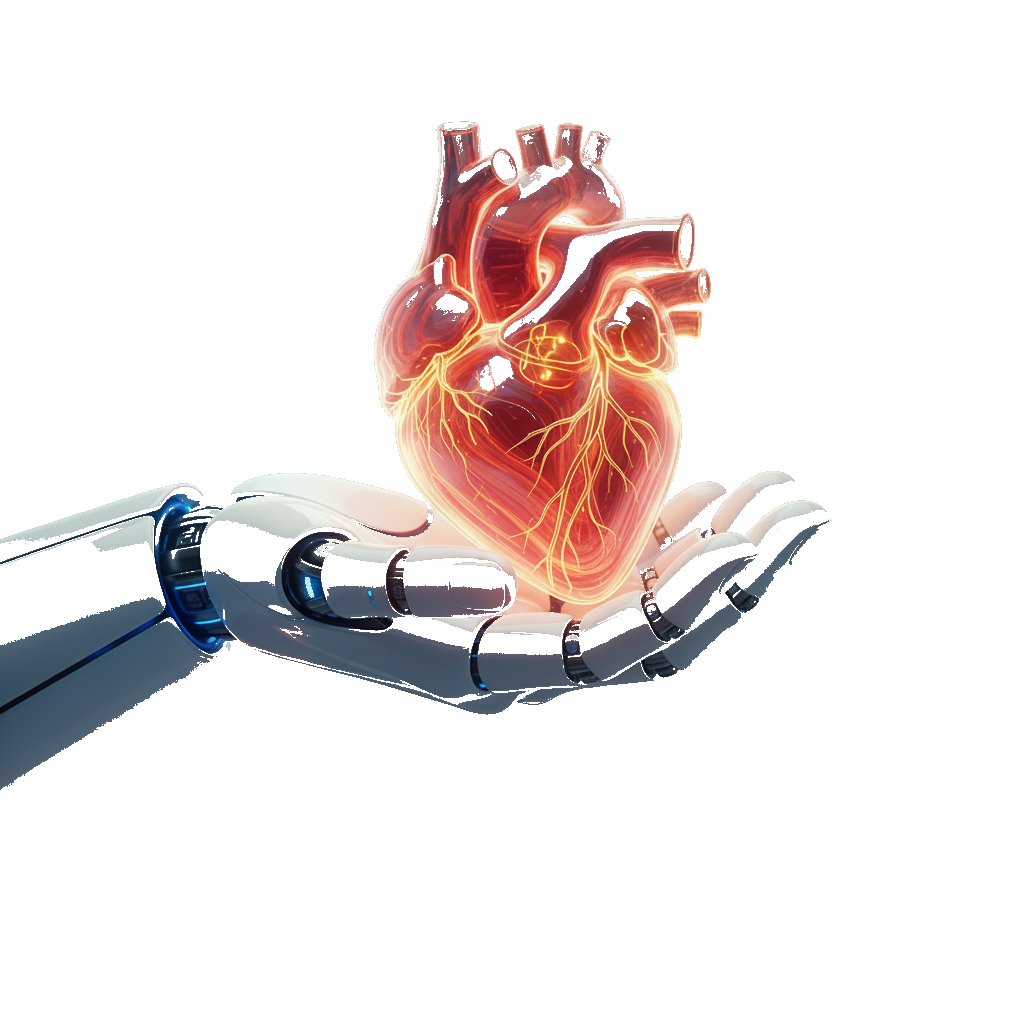
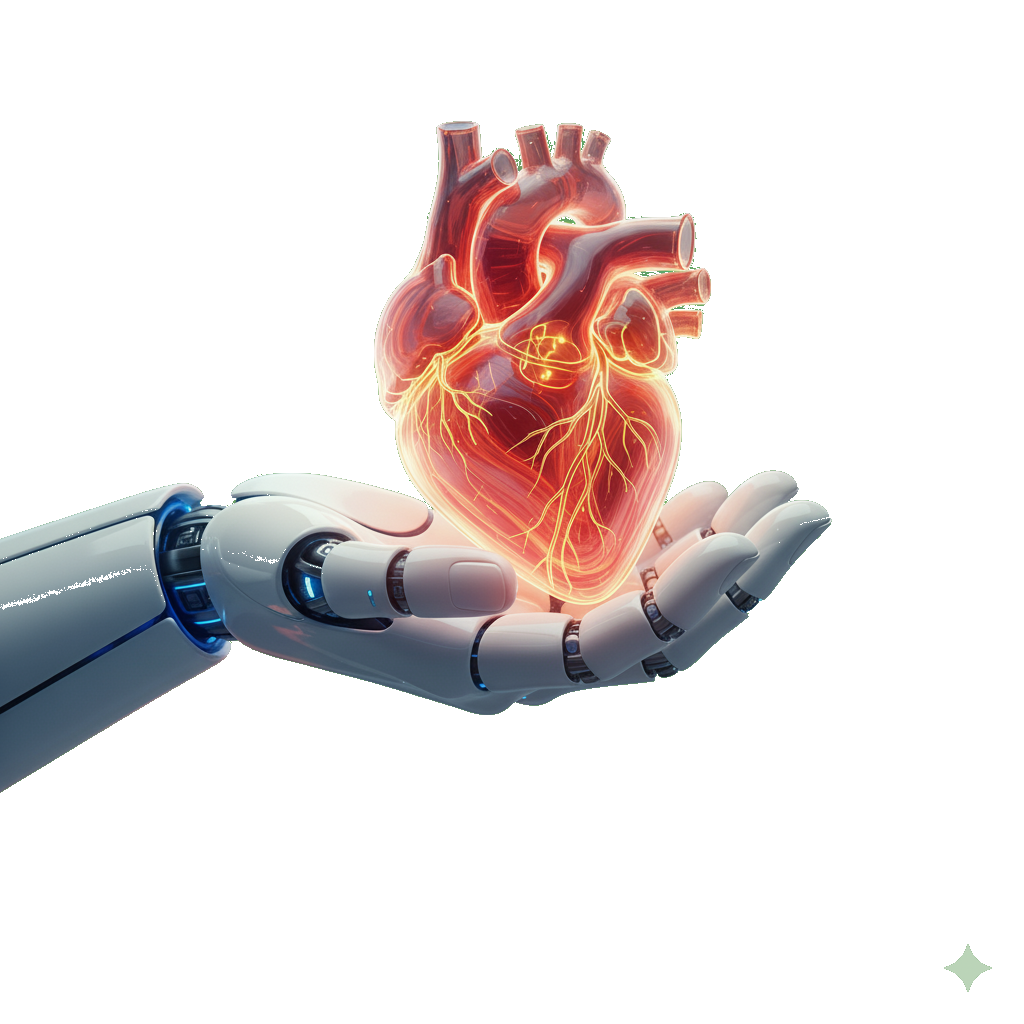
feat: Corrección fluida de servicios + Módulo de métricas Stats Bar + Sección de Proceso 3 pasos + Status Badge Navbar

diff --git a/index.html b/index.html
@@ -24,6 +24,76 @@
 </head>
 <body class="bg-texture">
 
+  <!-- Global Synaptic Neural Background Canvas -->
+  <canvas id="neural-canvas" style="position: fixed; top: 0; left: 0; width: 100vw; height: 100vh; pointer-events: none; z-index: 0; opacity: 0.35;"></canvas>
+
+  <script>
+    (function() {
+      const canvas = document.getElementById('neural-canvas');
+      if (!canvas) return;
+      const ctx = canvas.getContext('2d');
+      let width, height, particles;
+
+      function resize() {
+        width = canvas.width = window.innerWidth;
+        height = canvas.height = window.innerHeight;
+        initParticles();
+      }
+
+      function initParticles() {
+        particles = [];
+        const count = Math.floor((width * height) / 14000);
+        for (let i = 0; i < count; i++) {
+          particles.push({
+            x: Math.random() * width,
+            y: Math.random() * height,
+            vx: (Math.random() - 0.5) * 0.5,
+            vy: (Math.random() - 0.5) * 0.5,
+            radius: Math.random() * 2 + 1
+          });
+        }
+      }
+
+      function animate() {
+        ctx.clearRect(0, 0, width, height);
+        for (let i = 0; i < particles.length; i++) {
+          const p = particles[i];
+          p.x += p.vx;
+          p.y += p.vy;
+
+          if (p.x < 0 || p.x > width) p.vx *= -1;
+          if (p.y < 0 || p.y > height) p.vy *= -1;
+
+          ctx.beginPath();
+          ctx.arc(p.x, p.y, p.radius, 0, Math.PI * 2);
+          ctx.fillStyle = '#fbc02d';
+          ctx.fill();
+
+          for (let j = i + 1; j < particles.length; j++) {
+            const p2 = particles[j];
+            const dx = p.x - p2.x;
+            const dy = p.y - p2.y;
+            const dist = Math.sqrt(dx * dx + dy * dy);
+
+            if (dist < 150) {
+              ctx.beginPath();
+              ctx.moveTo(p.x, p.y);
+              ctx.lineTo(p2.x, p2.y);
+              ctx.strokeStyle = `rgba(232, 30, 97, ${0.65 * (1 - dist / 150)})`;
+              ctx.lineWidth = 1;
+              ctx.stroke();
+            }
+          }
+        }
+        requestAnimationFrame(animate);
+      }
+
+      window.addEventListener('resize', resize, { passive: true });
+      resize();
+      animate();
+    })();
+  </script>
+
   <!-- Navigation Bar -->
   <nav id="navbar" class="navbar">
     <div class="container navbar__nav">
@@ -36,17 +106,24 @@
         <li><a href="#clientes" class="navbar__link">CLIENTES</a></li>
         <li><a href="#portafolio" class="navbar__link">PORTAFOLIO</a></li>
         <li><a href="#servicios" class="navbar__link">SERVICIOS</a></li>
+        <li><a href="#proceso" class="navbar__link">PROCESO</a></li>
         <li><a href="#tarifario" class="navbar__link">TARIFARIO</a></li>
       </ul>
 
-      <a href="https://wa.me/[phone redacted]?text=Hola%20Horizonte!%20Me%20gustar%C3%ADa%20más%20informaci%C3%B3n" target="_blank" class="btn-whatsapp-nav">
-        <i data-lucide="message-circle"></i> 312 133 10 67
-      </a>
+      <div style="display:flex;align-items:center;gap:1.5rem;">
+        <span style="display:inline-flex;align-items:center;gap:0.4rem;font-size:0.8rem;color:#4ade80;background:rgba(74,222,128,0.1);padding:0.3rem 0.8rem;border-radius:999px;border:1px solid rgba(74,222,128,0.2);" class="hidden-mobile">
+          <span style="width:8px;height:8px;background:#4ade80;border-radius:50%;animation:blink-cursor 1s infinite;"></span> DISPONIBLE 2026
+        </span>
+
+        <a href="https://wa.me/[phone redacted]?text=Hola%20Horizonte!%20Me%20gustar%C3%ADa%20más%20informaci%C3%B3n" target="_blank" class="btn-whatsapp-nav">
+          <i data-lucide="message-circle"></i> 312 133 10 67
+        </a>
+      </div>
     </div>
   </nav>
 
   <!-- Hero Section (Recreated Reference Design) -->
-  <section class="hero bg-texture">
+  <section class="hero" style="background: transparent;">
     <!-- Curved topography lines element top right -->
     <svg class="hero__contour-bg" viewBox="0 0 200 200" fill="none" xmlns="http://www.w3.org/2000/svg">
       <path d="M10 100 Q 50 10, 100 100 T 190 100" stroke="rgba(255,255,255,0.3)" stroke-width="1.5" fill="none"/>
@@ -56,7 +133,7 @@
     </svg>
 
     <div class="container hero__grid">
-      <!-- Left side: 3D Robot Arm holding Glowing Anatomical Heart (Exact Original Reference Asset) -->
+      <!-- Left side: Original Hand & Heart -->
       <div class="hero__img-container reveal">
         <img src="./assets/images/original_hand_heart_transparent.png" alt="Inteligencia con Alma Creativa - Mano Robótica y Corazón" class="hero__img-robot animate-float">
       </div>
@@ -206,6 +283,28 @@
     </div>
   </section>
 
+  <!-- Stats / Métricas Bar -->
+  <section class="container" style="margin: -2rem auto 4rem; position: relative; z-index: 10;">
+    <div style="background: rgba(255,255,255,0.03); backdrop-filter: blur(20px); -webkit-backdrop-filter: blur(20px); border: 1px solid rgba(255,255,255,0.1); border-radius: 24px; padding: 2.5rem; display: grid; grid-template-columns: repeat(auto-fit, minmax(200px, 1fr)); gap: 2rem; text-align: center;" class="reveal">
+      <div>
+        <div class="font-antonio text-pink" style="font-size: 3rem; line-height: 1; font-weight: 700;">+150</div>
+        <div style="color: #aaa; font-size: 0.9rem; margin-top: 0.5rem; font-weight: 600;">PROYECTOS ENTREGADOS</div>
+      </div>
+      <div>
+        <div class="font-antonio text-gold" style="font-size: 3rem; line-height: 1; font-weight: 700;">100%</div>
+        <div style="color: #aaa; font-size: 0.9rem; margin-top: 0.5rem; font-weight: 600;">INTENCIÓN & ALMA</div>
+      </div>
+      <div>
+        <div class="font-antonio" style="font-size: 3rem; line-height: 1; font-weight: 700; color: #3b82f6;">6</div>
+        <div style="color: #aaa; font-size: 0.9rem; margin-top: 0.5rem; font-weight: 600;">ÁREAS DE DOMINIO</div>
+      </div>
+      <div>
+        <div class="font-antonio" style="font-size: 3rem; line-height: 1; font-weight: 700; color: #4ade80;">2026</div>
+        <div style="color: #aaa; font-size: 0.9rem; margin-top: 0.5rem; font-weight: 600;">TENDENCIA & VANGUARDIA</div>
+      </div>
+    </div>
+  </section>
+
   <!-- Servicios / Teclado Creativo -->
   <section id="servicios" class="services container">
     <div class="reveal" style="margin-bottom: 4rem;">
@@ -217,7 +316,7 @@
 
     <div class="services__grid">
       <!-- Servicio 1: Branding -->
-      <div class="service-card reveal" onclick="Pricing.switchTab('branding'); window.location.href='#tarifario';">
+      <div class="service-card reveal" onclick="Pricing.navigateToTab('branding');">
         <div class="service-card__symbol">#</div>
         <div class="service-card__keycap">
           <i data-lucide="lightbulb" style="width: 42px; height: 42px;"></i>
@@ -228,7 +327,7 @@
       </div>
 
       <!-- Servicio 2: Diseño Gráfico -->
-      <div class="service-card reveal" onclick="Pricing.switchTab('grafico'); window.location.href='#tarifario';">
+      <div class="service-card reveal" onclick="Pricing.navigateToTab('grafico');">
         <div class="service-card__symbol">[ ]</div>
         <div class="service-card__keycap">
           <i data-lucide="pen-tool" style="width: 42px; height: 42px;"></i>
@@ -239,7 +338,7 @@
       </div>
 
       <!-- Servicio 3: Desarrollo Web -->
-      <div class="service-card reveal" onclick="Pricing.switchTab('web'); window.location.href='#tarifario';">
+      <div class="service-card reveal" onclick="Pricing.navigateToTab('web');">
         <div class="service-card__symbol">{ }</div>
         <div class="service-card__keycap" style="color: #3b82f6;">
           <i data-lucide="code" style="width: 42px; height: 42px;"></i>
@@ -250,7 +349,7 @@
       </div>
 
       <!-- Servicio 4: Audiovisual -->
-      <div class="service-card reveal" onclick="Pricing.switchTab('audiovisual'); window.location.href='#tarifario';">
+      <div class="service-card reveal" onclick="Pricing.navigateToTab('audiovisual');">
         <div class="service-card__symbol">&gt;</div>
         <div class="service-card__keycap" style="color: #22c55e;">
           <i data-lucide="camera" style="width: 42px; height: 42px;"></i>
@@ -261,7 +360,7 @@
       </div>
 
       <!-- Servicio 5: Streaming -->
-      <div class="service-card reveal" onclick="Pricing.switchTab('streaming'); window.location.href='#tarifario';">
+      <div class="service-card reveal" onclick="Pricing.navigateToTab('streaming');">
         <div class="service-card__symbol">.</div>
         <div class="service-card__keycap" style="color: #ef4444;">
           <i data-lucide="radio" style="width: 42px; height: 42px;"></i>
@@ -272,7 +371,7 @@
       </div>
 
       <!-- Servicio 6: Redes Sociales -->
-      <div class="service-card reveal" onclick="Pricing.switchTab('redes'); window.location.href='#tarifario';">
+      <div class="service-card reveal" onclick="Pricing.navigateToTab('redes');">
         <div class="service-card__symbol">@</div>
         <div class="service-card__keycap" style="color: var(--color-pink-light);">
           <i data-lucide="smartphone" style="width: 42px; height: 42px;"></i>
@@ -280,6 +379,35 @@
         <h3 class="service-card__title">REDES SOCIALES</h3>
         <p class="service-card__desc">Gestión estratégica, Reels en vertical y administración de pauta para conectar con tu público.</p>
         <span class="service-card__link" style="color: var(--color-pink-light);">VER TARIFAS →</span>
+      </div>
+    </div>
+  </section>
+
+  <!-- Sección Proceso (Así trabajamos) -->
+  <section id="proceso" class="container" style="padding: 6rem 1.5rem;">
+    <div class="reveal" style="text-align: center; margin-bottom: 4rem;">
+      <span style="color: var(--color-gold-bright); font-weight: 700; letter-spacing: 0.2em; font-size: 0.85rem; text-transform: uppercase;">NUESTRA METODOLOGÍA</span>
+      <h2 class="font-antonio" style="font-size: 3.5rem; margin-top: 0.5rem;">ASÍ CREAMOS CONTIGO</h2>
+      <p style="color: #aaa; font-size: 1.1rem; max-width: 600px; margin: 1rem auto 0;">Un proceso estructurado de 3 pasos que garantiza resultados trascendentes para tu marca.</p>
+    </div>
+
+    <div style="display: grid; grid-template-columns: repeat(auto-fit, minmax(300px, 1fr)); gap: 2rem;">
+      <div class="service-card reveal">
+        <span class="font-antonio text-pink" style="font-size: 4rem; line-height: 1; opacity: 0.8;">01</span>
+        <h3 class="font-antonio" style="font-size: 1.8rem; margin: 1rem 0 0.5rem;">BRIEF & ESTRATEGIA</h3>
+        <p style="color: #aaa; font-size: 0.95rem;">Escuchamos tu visión con oídos creativos. Analizamos tu mercado para diseñar una estrategia que rompa el ruido digital.</p>
+      </div>
+
+      <div class="service-card reveal">
+        <span class="font-antonio text-gold" style="font-size: 4rem; line-height: 1; opacity: 0.8;">02</span>
+        <h3 class="font-antonio" style="font-size: 1.8rem; margin: 1rem 0 0.5rem;">DIRECCIÓN DE ARTE & IA</h3>
+        <p style="color: #aaa; font-size: 0.95rem;">Creamos e iteramos combinando intuición humana y herramientas de Inteligencia Artificial para esculpir una pieza única.</p>
+      </div>
+
+      <div class="service-card reveal">
+        <span class="font-antonio" style="font-size: 4rem; line-height: 1; color: #3b82f6; opacity: 0.8;">03</span>
+        <h3 class="font-antonio" style="font-size: 1.8rem; margin: 1rem 0 0.5rem;">ENTREGA & SOPORTE</h3>
+        <p style="color: #aaa; font-size: 0.95rem;">Entregamos impacto y presencia. Te acompañamos en la implementación y medimos resultados para garantizar trascendencia.</p>
       </div>
     </div>
   </section>

diff --git a/js/app.js b/js/app.js
@@ -21,6 +21,73 @@ document.addEventListener('DOMContentLoaded', () => {
 
   revealElements.forEach(el => revealObserver.observe(el));
 
+  // Global Synaptic Neural Background Canvas Engine (Option 1)
+  const canvas = document.getElementById('neural-canvas');
+  if (canvas) {
+    const ctx = canvas.getContext('2d');
+    let width, height, particles;
+
+    function resize() {
+      width = canvas.width = window.innerWidth;
+      height = canvas.height = window.innerHeight;
+      initParticles();
+    }
+
+    function initParticles() {
+      particles = [];
+      const particleCount = Math.floor((width * height) / 12000);
+      for (let i = 0; i < particleCount; i++) {
+        particles.push({
+          x: Math.random() * width,
+          y: Math.random() * height,
+          vx: (Math.random() - 0.5) * 0.7,
+          vy: (Math.random() - 0.5) * 0.7,
+          radius: Math.random() * 2.5 + 1.5
+        });
+      }
+    }
+
+    function animateNeural() {
+      ctx.clearRect(0, 0, width, height);
+
+      for (let i = 0; i < particles.length; i++) {
+        const p = particles[i];
+        p.x += p.vx;
+        p.y += p.vy;
+
+        if (p.x < 0 || p.x > width) p.vx *= -1;
+        if (p.y < 0 || p.y > height) p.vy *= -1;
+
+        ctx.beginPath();
+        ctx.arc(p.x, p.y, p.radius, 0, Math.PI * 2);
+        ctx.fillStyle = '#fbc02d';
+        ctx.fill();
+
+        for (let j = i + 1; j < particles.length; j++) {
+          const p2 = particles[j];
+          const dx = p.x - p2.x;
+          const dy = p.y - p2.y;
+          const dist = Math.sqrt(dx * dx + dy * dy);
+
+          if (dist < 170) {
+            ctx.beginPath();
+            ctx.moveTo(p.x, p.y);
+            ctx.lineTo(p2.x, p2.y);
+            ctx.strokeStyle = `rgba(232, 30, 97, ${(1 - dist / 170) * 0.8})`;
+            ctx.lineWidth = 1.2;
+            ctx.stroke();
+          }
+        }
+      }
+
+      requestAnimationFrame(animateNeural);
+    }
+
+    window.addEventListener('resize', resize, { passive: true });
+    resize();
+    animateNeural();
+  }
+
   // Initialize Pricing
   if (typeof Pricing !== 'undefined') {
     Pricing.init();

diff --git a/styles/components.css b/styles/components.css
@@ -268,14 +268,24 @@
   margin-top: 3rem;
 }
 
+/* Portfolio Cards with macOS Glassmorphism */
 .portfolio__card {
-  background: var(--color-bg-card);
-  border-radius: 20px;
+  background: rgba(255, 255, 255, 0.04);
+  backdrop-filter: blur(20px);
+  -webkit-backdrop-filter: blur(20px);
+  border-radius: 24px;
   overflow: hidden;
-  border: 1px solid var(--color-border);
-  transition: transform 0.4s, border-color 0.4s;
+  border: 1px solid rgba(255, 255, 255, 0.12);
+  box-shadow: 0 20px 40px rgba(0, 0, 0, 0.4), inset 0 1px 0 rgba(255, 255, 255, 0.15);
+  transition: transform 0.4s cubic-bezier(0.34, 1.56, 0.64, 1), border-color 0.4s, box-shadow 0.4s;
   min-width: 380px;
   flex-shrink: 0;
+}
+
+.portfolio__card:hover {
+  transform: translateY(-10px) scale(1.02);
+  border-color: rgba(232, 30, 97, 0.5);
+  box-shadow: 0 30px 60px rgba(232, 30, 97, 0.25), inset 0 1px 0 rgba(255, 255, 255, 0.3);
 }
 
 .portfolio__marquee {
@@ -296,11 +306,6 @@
 
 .portfolio__marquee:hover .portfolio__marquee-content {
   animation-play-state: paused;
-}
-
-.portfolio__card:hover {
-  transform: translateY(-10px);
-  border-color: var(--color-pink-light);
 }
 
 .portfolio__img {
@@ -325,20 +330,30 @@
   margin-top: 4rem;
 }
 
-/* Services / Teclado Creativo Keycaps */
+/* Services / Teclado Creativo Keycaps with macOS Glassmorphism */
 .service-card {
-  background: var(--color-bg-card);
-  border: 1px solid var(--color-border);
+  background: rgba(255, 255, 255, 0.035);
+  backdrop-filter: blur(24px);
+  -webkit-backdrop-filter: blur(24px);
+  border: 1px solid rgba(255, 255, 255, 0.12);
   border-radius: 24px;
   padding: 3rem 2rem;
   position: relative;
   overflow: hidden;
+  box-shadow: 0 20px 40px rgba(0, 0, 0, 0.5), inset 0 1px 0 rgba(255, 255, 255, 0.15);
   transition: all 0.4s cubic-bezier(0.34, 1.56, 0.64, 1);
   cursor: pointer;
   display: flex;
   flex-direction: column;
   align-items: center;
   text-align: center;
+}
+
+.service-card:hover {
+  transform: translateY(-10px) scale(1.02);
+  border-color: rgba(251, 192, 45, 0.6);
+  background: rgba(255, 255, 255, 0.06);
+  box-shadow: 0 30px 60px rgba(251, 192, 45, 0.25), inset 0 1px 0 rgba(255, 255, 255, 0.3);
 }
 
 .service-card__symbol {

diff --git a/js/pricing.js b/js/pricing.js
@@ -64,6 +64,14 @@ const Pricing = (() => {
     renderTab(tabKey);
   }
 
+  function navigateToTab(tabKey) {
+    switchTab(tabKey);
+    const target = document.getElementById('tarifario');
+    if (target) {
+      target.scrollIntoView({ behavior: 'smooth', block: 'start' });
+    }
+  }
+
   function renderTab(tabKey) {
     const container = document.getElementById('pricing-cards-container');
     if (!container) return;